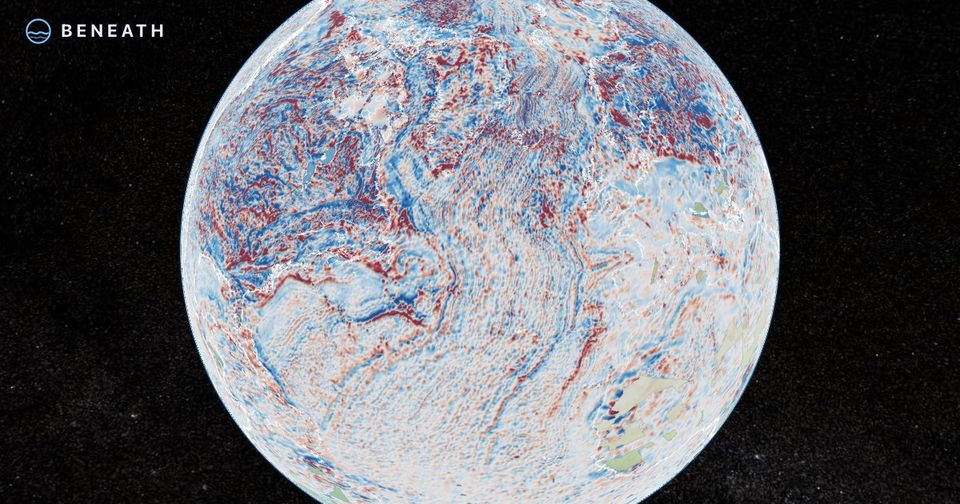
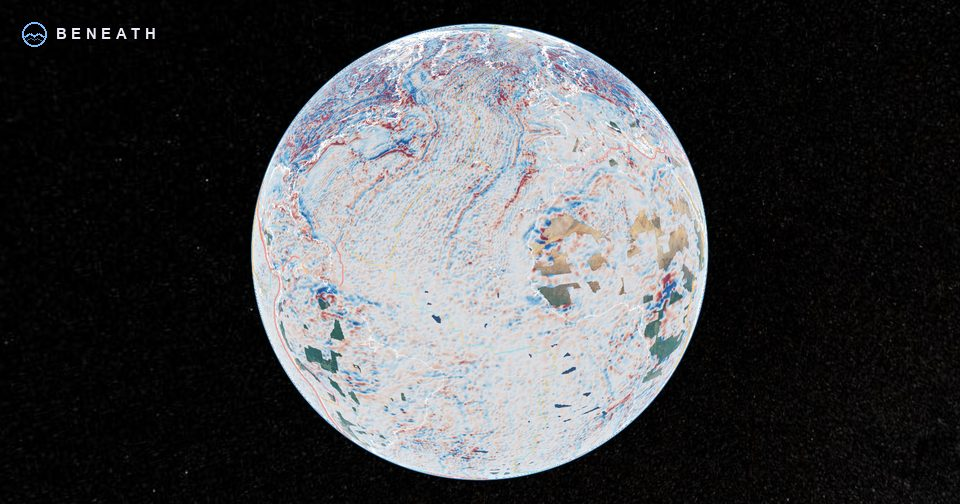
Show the whole globe on the Beneath card
The previous image cut off the top and bottom of the globe. Replace it
with a fresh capture framed with margin all round.

diff --git a/index.html b/index.html
@@ -210,7 +210,7 @@
         </a>
 
         <a class="card project" href="https://beneath.akanjilal.dev/" target="_blank" rel="noopener">
-          <img class="shot" src="/assets/img/hobby-beneath.jpg" width="960" height="504" loading="lazy" alt="Beneath: a 3D globe coloured by magnetic anomalies beneath the Earth's surface">
+          <img class="shot" src="/assets/img/hobby-beneath.jpg?v=2" width="960" height="504" loading="lazy" alt="Beneath: a 3D globe coloured by magnetic anomalies beneath the Earth's surface">
           <div class="card-top"><span class="repo">Beneath</span><span class="chip">3D · geoscience</span></div>
           <p>Rotate the Earth, peel back the surface, and see what lies beneath any point on the planet.</p>
           <div class="go mono">Visit the site ↗</div>
